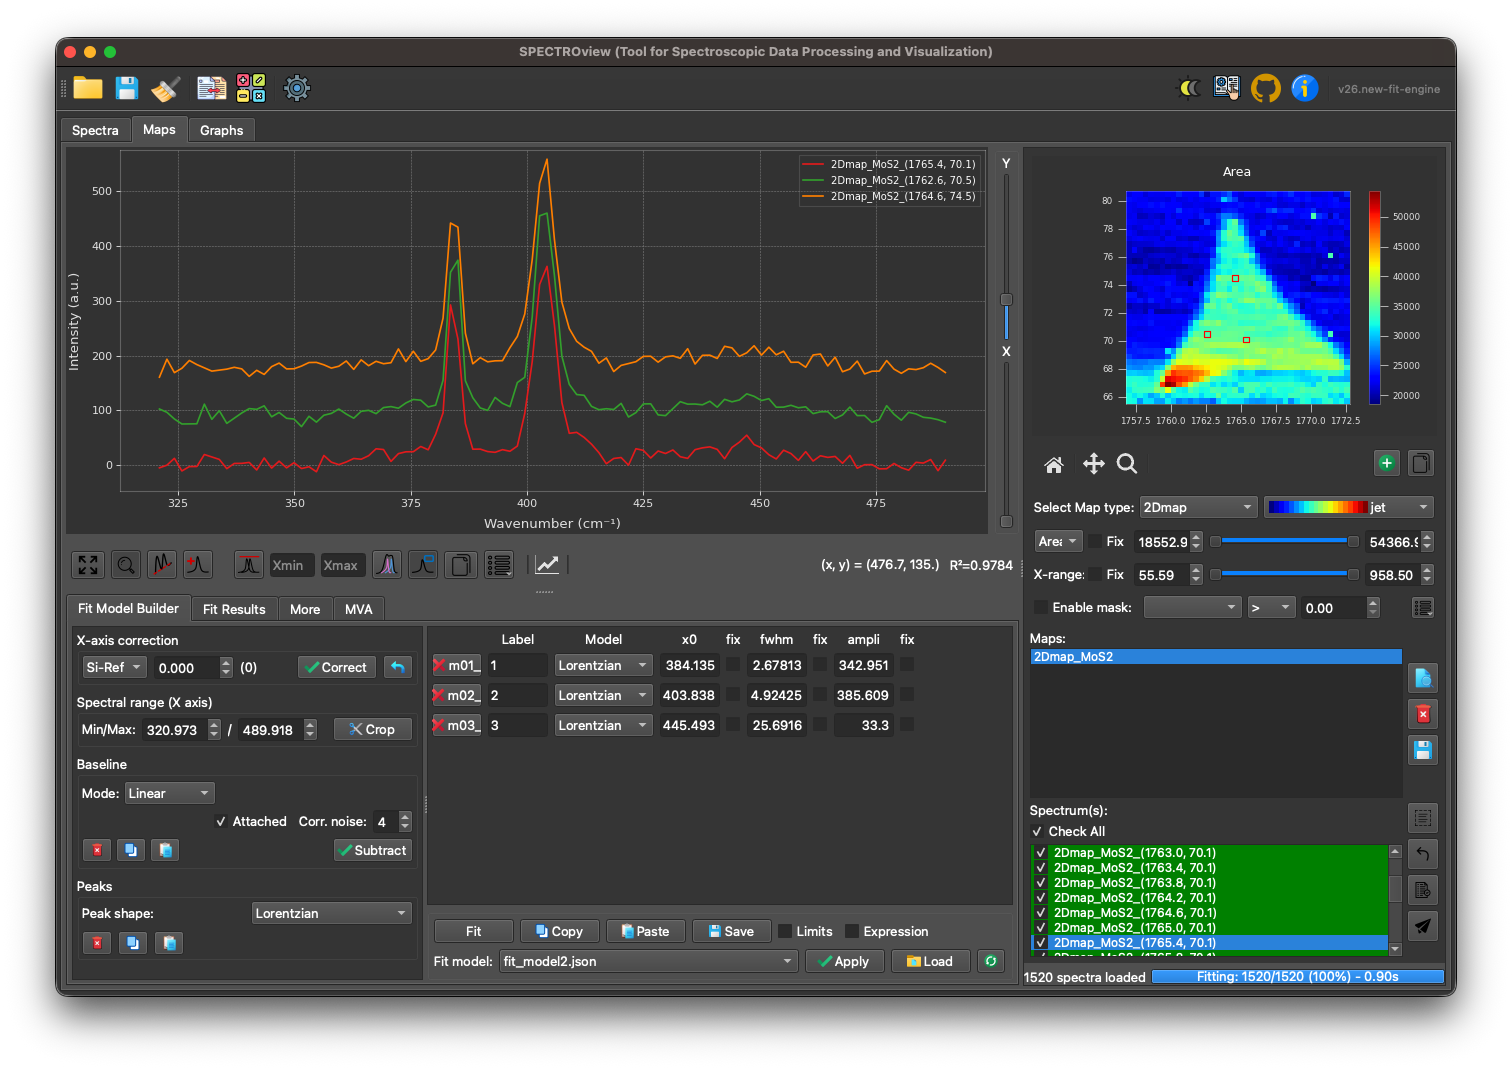
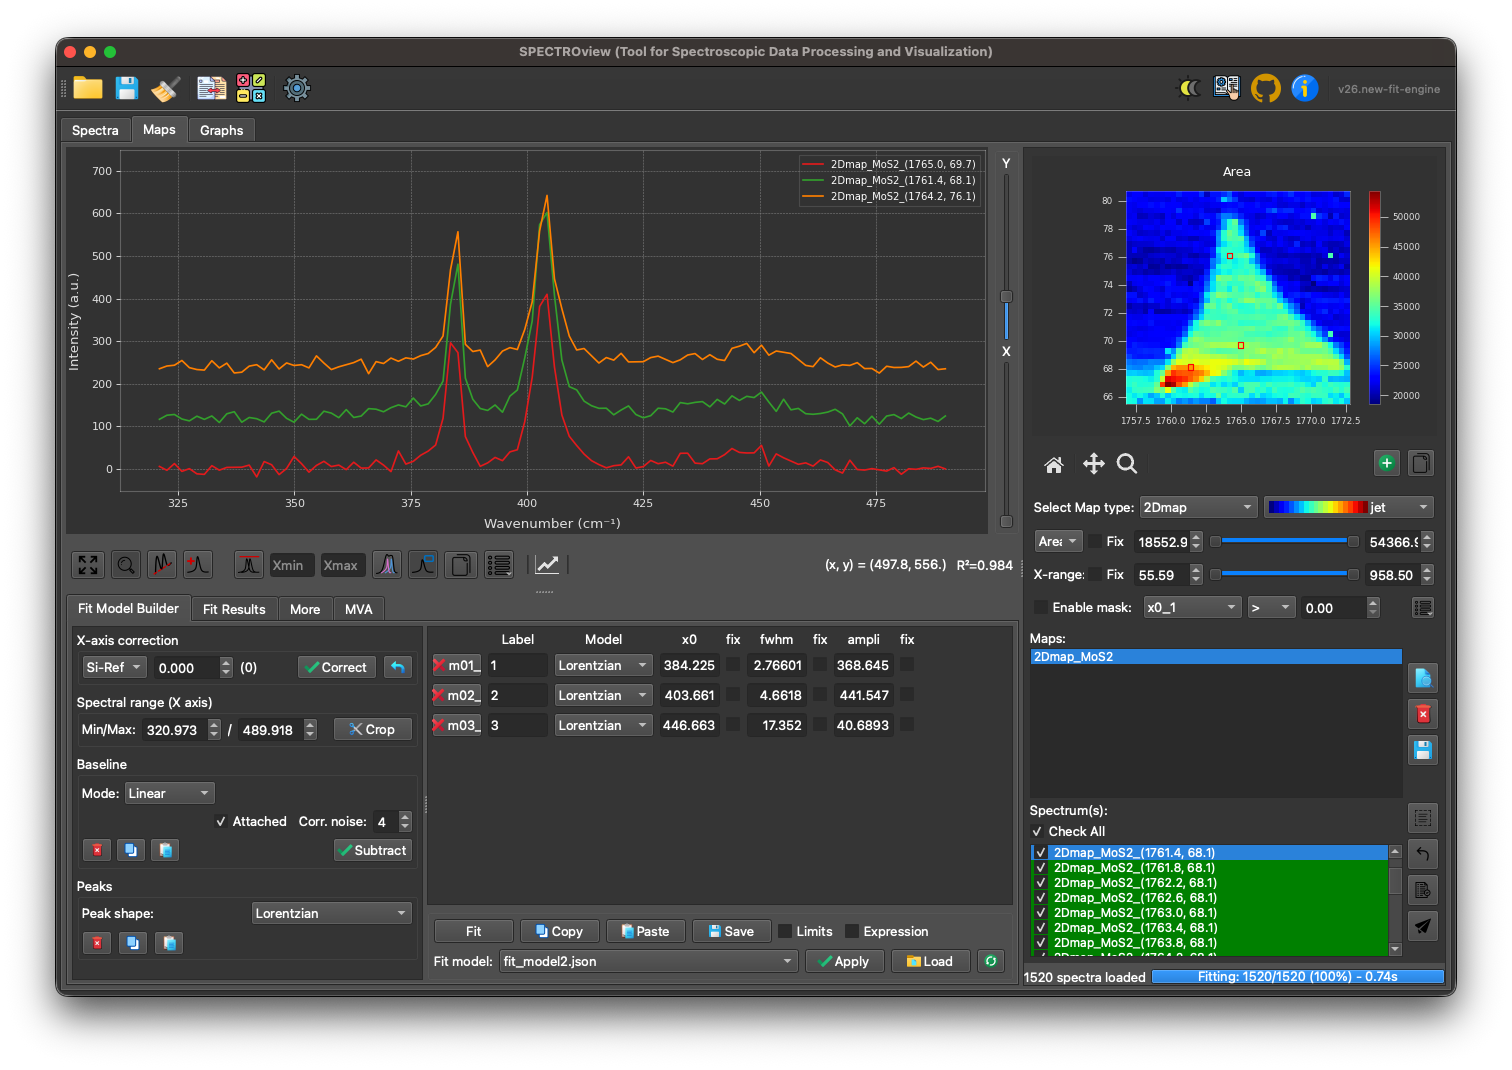
Deployed bfb7b21 with MkDocs version: 1.6.1

diff --git a/user-manual/05_spectra_maps/index.html b/user-manual/05_spectra_maps/index.html
@@ -1418,12 +1418,12 @@
 
 <h2 id="5-spectra-and-maps-workspaces">5. Spectra and Maps Workspaces<a class="headerlink" href="#5-spectra-and-maps-workspaces" title="Permanent link">&para;</a></h2>
 <p>The Maps and Spectra workspaces share a unified design and many core features. However, the Maps workspace includes additional, specialized tools specifically engineered for handling large hyperspectral datasets.</p>
-<p><img alt="Overview Spectra and Maps" src="../../user_manual_images/imageFile19.png" /><br>
-<img alt="Overview Spectra and Maps" src="../../user_manual_images/imageFile20.png" /><br>
+<p><img alt="Overview Spectra and Maps" src="../../user_manual_images/Spectra_Maps/imageFile19.png" /><br>
+<img alt="Overview Spectra and Maps" src="../../user_manual_images/Spectra_Maps/imageFile20.png" /><br>
 <em>Figure 3: Interface overview of the Spectra (left) and Maps (right) workspaces. Both interfaces are divided into three primary sections. Section 1 (SpectraViewer) and Section 2 (FitModelBuilder) are identical in both workspaces, whereas Section 3 (SpectraList / MapList) is tailored to the specific data type.</em></p>
 <h3 id="51-spectralist-maplist">5.1 SpectraList &amp; MapList<a class="headerlink" href="#51-spectralist-maplist" title="Permanent link">&para;</a></h3>
 <p>These components are engineered for efficient navigation and management of your spectral or hyperspectral datasets.</p>
-<p><img alt="MapList and MapViewer" src="../../user_manual_images/imageFile22.png" /><br>
+<p><img alt="MapList and MapViewer" src="../../user_manual_images/Spectra_Maps/imageFile22.png" /><br>
 <em>Figure 4: (Left) The MapList section within the Maps workspace. (Right) The MapViewer module and 'More Options' panel used to adjust the heatmap display.</em></p>
 <p><strong>MapList</strong>: Displays all loaded map files, including wafer maps and 2D map types. Three utility buttons located on the right allow you to: (1) view the selected map data, (2) delete the selected map from the workspace, or (3) export the selected map directly to an Excel file.</p>
 <p><strong>SpectraList</strong>: Displays all loaded discrete spectra in the Spectra workspace, or all spectra associated with the currently selected map in the Maps workspace. You can select one or multiple spectra simultaneously; the selected spectra are immediately visualized in the SpectraViewer. Dedicated buttons allow you to select all spectra, clear your selection, display a comprehensive fit statistic report, or send the currently selected spectra to the Spectra workspace for isolated analysis.</p>
@@ -1437,11 +1437,11 @@
 <li><strong>Copy Button</strong>: Instantly copies the heatmap to your clipboard.</li>
 <li><strong>Multiple MapViewers</strong>: Launch additional MapViewer windows as floating widgets to easily compare different parameters side-by-side.</li>
 </ul>
-<p><img alt="SpectraList and ProgressBar" src="../../user_manual_images/imageFile24.png" /><br>
+<p><img alt="SpectraList and ProgressBar" src="../../user_manual_images/Spectra_Maps/imageFile24.png" /><br>
 <em>Figure 5: SpectraList alongside the ProgressBar. The progress bar displays real-time fitting progress (percentage and elapsed time). A 'Stop' button is provided to safely halt an ongoing fitting process.</em></p>
 <h3 id="52-spectra-viewer">5.2 Spectra Viewer<a class="headerlink" href="#52-spectra-viewer" title="Permanent link">&para;</a></h3>
 <p>The SpectraViewer is the central plotting widget where all spectra (and their best-fit curves) selected via the SpectraList are visualized.</p>
-<p><img alt="Spectra Viewer" src="../../user_manual_images/imageFile25.png" /><br>
+<p><img alt="Spectra Viewer" src="../../user_manual_images/Spectra_Maps/imageFile25.png" /><br>
 <em>Figure 6: The Spectra Viewer widget (left) and its View Options Menu (right).</em></p>
 <h4 id="toolbar-buttons-view-options">Toolbar Buttons &amp; View Options<a class="headerlink" href="#toolbar-buttons-view-options" title="Permanent link">&para;</a></h4>
 <table>
@@ -1453,36 +1453,36 @@
 </thead>
 <tbody>
 <tr>
-<td><img alt="Rescale" src="../../user_manual_images/imageFile26.png" /></td>
+<td><img alt="Rescale" src="../../user_manual_images/Spectra_Maps/imageFile26.png" /></td>
 <td><strong>Rescale</strong>: Automatically rescales the plot axes to fit the current data perfectly. Shortcut: <code>Ctrl + R</code>.</td>
 </tr>
 <tr>
-<td><img alt="Zoom" src="../../user_manual_images/imageFile27.png" /></td>
+<td><img alt="Zoom" src="../../user_manual_images/Spectra_Maps/imageFile27.png" /></td>
 <td><strong>Zoom</strong>: When toggled on, enables a click-and-drag box zoom feature using the left mouse button.</td>
 </tr>
 <tr>
-<td><img alt="Baseline" src="../../user_manual_images/imageFile28.png" /></td>
+<td><img alt="Baseline" src="../../user_manual_images/Spectra_Maps/imageFile28.png" /></td>
 <td><strong>Baseline</strong>: When toggled on, allows you to manually define baseline anchor points by clicking directly on the spectra.</td>
 </tr>
 <tr>
-<td><img alt="Peaks" src="../../user_manual_images/imageFile29.png" /></td>
+<td><img alt="Peaks" src="../../user_manual_images/Spectra_Maps/imageFile29.png" /></td>
 <td><strong>Peaks</strong>: When toggled on, allows you to manually add initial peak guesses by clicking directly on the spectra.</td>
 </tr>
 <tr>
-<td><img alt="Normalization" src="../../user_manual_images/imageFile31.png" /> <img alt="Normalization Max" src="../../user_manual_images/imageFile32.png" /> <img alt="Normalization Range" src="../../user_manual_images/imageFile33.png" /></td>
-<td><strong>Normalization</strong>: Displays the selected spectra normalized to their maximum peak intensity. Enter values into the 'min' and 'max' fields to normalize based on a specific, targeted spectral range.<br><img alt="Normalization Example" src="../../user_manual_images/imageFile34.png" /><br><em>Figure 7: Raw spectra (left) vs. normalized spectra (right), highly useful for inspecting subtle peak shifts.</em></td>
+<td><img alt="Normalization" src="../../user_manual_images/Spectra_Maps/imageFile31.png" /> <img alt="Normalization Max" src="../../user_manual_images/Spectra_Maps/imageFile32.png" /> <img alt="Normalization Range" src="../../user_manual_images/Spectra_Maps/imageFile33.png" /></td>
+<td><strong>Normalization</strong>: Displays the selected spectra normalized to their maximum peak intensity. Enter values into the 'min' and 'max' fields to normalize based on a specific, targeted spectral range.<br><img alt="Normalization Example" src="../../user_manual_images/Spectra_Maps/imageFile34.png" /><br><em>Figure 7: Raw spectra (left) vs. normalized spectra (right), highly useful for inspecting subtle peak shifts.</em></td>
 </tr>
 <tr>
-<td><img alt="Legend" src="../../user_manual_images/imageFile35.png" /></td>
-<td><strong>Legend</strong>: Toggles the display of the legend box. When the 'Zoom' tool is disabled, you can click directly on the legend box to customize colors and labels.<br><img alt="Legend Customization" src="../../user_manual_images/imageFile36.png" /></td>
+<td><img alt="Legend" src="../../user_manual_images/Spectra_Maps/imageFile35.png" /></td>
+<td><strong>Legend</strong>: Toggles the display of the legend box. When the 'Zoom' tool is disabled, you can click directly on the legend box to customize colors and labels.<br><img alt="Legend Customization" src="../../user_manual_images/Spectra_Maps/imageFile36.png" /></td>
 </tr>
 <tr>
-<td><img alt="Copy" src="../../user_manual_images/imageFile37.png" /></td>
+<td><img alt="Copy" src="../../user_manual_images/Spectra_Maps/imageFile37.png" /></td>
 <td><strong>Copy</strong>: Copies the plot to your clipboard as a high-quality image. Use <code>Ctrl + Click</code> (or <code>Cmd + Click</code> on macOS) to copy the raw numerical plot data to your clipboard instead.</td>
 </tr>
 <tr>
-<td><img alt="More Options" src="../../user_manual_images/imageFile38.png" /></td>
-<td><strong>More Options</strong>: Opens a comprehensive configuration panel allowing you to adjust X/Y units, toggle Log scales, change plot styles, toggle Raw/Residual visibility, enable grids, adjust line widths, and define precise figure dimensions.<br><img alt="More Options Panel" src="../../user_manual_images/imageFile39.png" /></td>
+<td><img alt="More Options" src="../../user_manual_images/Spectra_Maps/imageFile38.png" /></td>
+<td><strong>More Options</strong>: Opens a comprehensive configuration panel allowing you to adjust X/Y units, toggle Log scales, change plot styles, toggle Raw/Residual visibility, enable grids, adjust line widths, and define precise figure dimensions.<br><img alt="More Options Panel" src="../../user_manual_images/Spectra_Maps/imageFile39.png" /></td>
 </tr>
 </tbody>
 </table>
@@ -1492,11 +1492,11 @@
 <li><strong>Add/Remove Peaks</strong>: With the 'Peak' button enabled, left-click to drop a new peak, or right-click near an existing peak to remove it.</li>
 <li><strong>Adjust Peak Initial Guesses</strong>: Click and drag the center or width of an initial peak guess to adjust it manually before fitting.</li>
 <li><strong>Quick Rescale Y-axis</strong>: Use your mouse wheel to rapidly scale the Y-axis up or down.
-<img alt="Quick rescale" src="../../user_manual_images/imageFile41.png" /><br></li>
+<img alt="Quick rescale" src="../../user_manual_images/Spectra_Maps/imageFile41.png" /><br></li>
 </ul>
 <h3 id="53-fit-model-builder">5.3 Fit Model Builder<a class="headerlink" href="#53-fit-model-builder" title="Permanent link">&para;</a></h3>
 <p>The FitModelBuilder tab is where you configure your spectral fitting models. It is divided into three main panels: Fitting, PeakTable, and FitModelControl.</p>
-<p><img alt="FitModelBuilder Tab" src="../../user_manual_images/imageFile42.png" /><br>
+<p><img alt="FitModelBuilder Tab" src="../../user_manual_images/Spectra_Maps/imageFile42.png" /><br>
 <em>Figure 8: The FitModelBuilder tab featuring: (1) The Fitting Panel, (2) The PeakTable Panel, and (3) The FitModelControl Panel.</em></p>
 <h4 id="531-fitting-panel">5.3.1 Fitting Panel<a class="headerlink" href="#531-fitting-panel" title="Permanent link">&para;</a></h4>
 <p>The Fitting Panel guides you through the process of building a robust model in four logical steps:</p>
@@ -1506,12 +1506,12 @@ Perform an empirical X-axis correction based on measurements from a known refere
 Restrict the mathematical fitting process to a specific X-axis region of interest.</p>
 <p><strong>Step 3: Baseline Definition</strong>
 SPECTROview offers two distinct modes for defining spectral baselines (Manual or Auto):</p>
-<p><img alt="Baseline Modes" src="../../user_manual_images/imageFile44.png" /><br>
+<p><img alt="Baseline Modes" src="../../user_manual_images/Spectra_Maps/imageFile44.png" /><br>
 <em>Figure 9: Baseline mode selection: Manual mode (left) vs. Auto mode (right).</em></p>
 <ul>
 <li>
 <p><strong>Manual Mode (Linear or Polynomial)</strong>: Define baseline anchor points by clicking directly in the SpectraViewer. Check <em>Attached</em> to automatically snap your clicked points to the nearest data curve. Check <em>Correct noise</em> to calculate the point's intensity as a local average of neighboring data, making it robust against high noise.
-<img alt="Manual Baseline Example" src="../../user_manual_images/imageFile45.png" /><br></p>
+<img alt="Manual Baseline Example" src="../../user_manual_images/Spectra_Maps/imageFile45.png" /><br></p>
 </li>
 <li>
 <p><strong>Auto Mode (airPLS or asLS)</strong>: Let advanced algorithms automatically generate the baseline curve. Use the slider to fine-tune the algorithm's aggressiveness.</p>
@@ -1524,11 +1524,11 @@ SPECTROview offers two distinct modes for defining spectral baselines (Manual or
 <li>Add peaks directly inside the SpectraViewer by left-clicking (ensure the Peak toggle button is active). You can interactively adjust their initial guesses by dragging them with the mouse.</li>
 <li>Every peak added to the plot is immediately listed in the <strong>PeakTable</strong>.</li>
 <li>Supported peak profiles include: Lorentzian, Gaussian, PseudoVoigt, LorentzianAsym, GaussianAsym, Fano, DecaySingleExp, and DecayBiExp.
-<img alt="Peak definition" src="../../user_manual_images/imageFile46.png" /><br></li>
+<img alt="Peak definition" src="../../user_manual_images/Spectra_Maps/imageFile46.png" /><br></li>
 </ul>
 <h4 id="532-peaktable-panel">5.3.2 PeakTable Panel<a class="headerlink" href="#532-peaktable-panel" title="Permanent link">&para;</a></h4>
 <p>The PeakTable displays all the mathematical parameters for the peaks you have defined. When you drag a peak in the viewer, these properties update dynamically.</p>
-<p><img alt="PeakTable Panel" src="../../user_manual_images/imageFile48.png" /><br>
+<p><img alt="PeakTable Panel" src="../../user_manual_images/Spectra_Maps/imageFile48.png" /><br>
 <em>Figure 10: The PeakTable panel displaying peak parameters and constraints.</em></p>
 <p><strong>Constraints System</strong>:</p>
 <ul>
@@ -1536,35 +1536,35 @@ SPECTROview offers two distinct modes for defining spectral baselines (Manual or
 <li><strong>Limits</strong>: Enter minimum and maximum boundary values to restrict how far the optimizer can move the parameter.</li>
 <li><strong>Expression</strong>: Define complex mathematical relationships between parameters.</li>
 </ul>
-<p><img alt="Expression Limit" src="../../user_manual_images/imageFile49.png" /><br>
+<p><img alt="Expression Limit" src="../../user_manual_images/Spectra_Maps/imageFile49.png" /><br>
 <em>Example 1: Using an expression to constrain the position (<code>x0</code>) of <code>m02</code> to always remain exactly 17 units away from the position of <code>m01</code>.</em></p>
-<p><img alt="Expression Intensity" src="../../user_manual_images/imageFile50.png" /><br>
+<p><img alt="Expression Intensity" src="../../user_manual_images/Spectra_Maps/imageFile50.png" /><br>
 <em>Example 2: Using an expression to constrain the amplitude of <code>m03</code> to always be exactly half the amplitude of <code>m02</code>.</em></p>
 <h4 id="533-fitmodelcontrol-panel">5.3.3 FitModelControl Panel<a class="headerlink" href="#533-fitmodelcontrol-panel" title="Permanent link">&para;</a></h4>
 <p>Once your model is fully defined, click the <strong>Fit</strong> button to execute the optimization algorithm.</p>
-<p><img alt="FitModelControl Interface" src="../../user_manual_images/imageFile52.png" /><br>
+<p><img alt="FitModelControl Interface" src="../../user_manual_images/Spectra_Maps/imageFile52.png" /><br>
 <em>Figure 11: The FitModelControl interface.</em></p>
 <p><strong>Copy / Paste Fit Models</strong>: 
 A fully configured fit model can be copied from one spectrum and pasted onto another, making it easy to replicate complex setups.
-<img alt="Copy Fit" src="../../user_manual_images/imageFile53.png" /><br>
-<img alt="Paste Fit" src="../../user_manual_images/imageFile54.png" /><br>
-<img alt="Paste Example" src="../../user_manual_images/imageFile55.png" /><br></p>
+<img alt="Copy Fit" src="../../user_manual_images/Spectra_Maps/imageFile53.png" /><br>
+<img alt="Paste Fit" src="../../user_manual_images/Spectra_Maps/imageFile54.png" /><br>
+<img alt="Paste Example" src="../../user_manual_images/Spectra_Maps/imageFile55.png" /><br></p>
 <p><strong>Saving / Loading Fit Models</strong>:
 If you intend to use a model frequently, you can save it as a template. Stored models can easily be accessed and applied to new data using the dropdown menu.
-<img alt="Fit Model Dropdown" src="../../user_manual_images/imageFile56.png" /><br>
-<img alt="Load Fit Model" src="../../user_manual_images/imageFile57.png" /><br></p>
+<img alt="Fit Model Dropdown" src="../../user_manual_images/Spectra_Maps/imageFile56.png" /><br>
+<img alt="Load Fit Model" src="../../user_manual_images/Spectra_Maps/imageFile57.png" /><br></p>
 <h3 id="54-collect-save-fit-results">5.4 Collect &amp; Save Fit Results<a class="headerlink" href="#54-collect-save-fit-results" title="Permanent link">&para;</a></h3>
 <p>Once fitting is complete across your spectra or maps, you need to aggregate the mathematical results:</p>
 <ul>
 <li>Navigate to the <strong>Fit Results</strong> tab.</li>
 <li>Click the <strong>Collect</strong> button. SPECTROview will instantly aggregate all best-fit parameters into a unified, sortable table.</li>
 </ul>
-<p><img alt="Collect Fit Results 1" src="../../user_manual_images/imageFile58.png" /><br>
-<img alt="Collect Fit Results 2" src="../../user_manual_images/imageFile59.png" /><br>
+<p><img alt="Collect Fit Results 1" src="../../user_manual_images/Spectra_Maps/imageFile58.png" /><br>
+<img alt="Collect Fit Results 2" src="../../user_manual_images/Spectra_Maps/imageFile59.png" /><br>
 <em>Figure 12: The Collect Fit Results interface and aggregated data table.</em></p>
 <h4 id="541-splitting-filename-features">5.4.1 Splitting Filename Features<a class="headerlink" href="#541-splitting-filename-features" title="Permanent link">&para;</a></h4>
 <p>This tool allows you to automatically extract metadata embedded in your filenames. For example, if your files are named <code>Sample1_ProcessA_Temp25</code>, the tool can split the filename by underscores (<code>_</code>) and assign the extracted values into distinct new columns in your dataset.
-<img alt="Filename Splitting" src="../../user_manual_images/imageFile61.png" /><br></p>
+<img alt="Filename Splitting" src="../../user_manual_images/Spectra_Maps/imageFile61.png" /><br></p>
 <h4 id="542-compute-and-add-new-columns">5.4.2 Compute and Add New Columns<a class="headerlink" href="#542-compute-and-add-new-columns" title="Permanent link">&para;</a></h4>
 <p>You can easily create new columns derived from mathematical combinations of existing fitted parameters (e.g., calculating a peak shift via <code>x0_p1 - x0_p2</code>).
 Supported mathematical operations include: <code>+</code>, <code>-</code>, <code>*</code>, <code>/</code>, <code>**</code>, <code>%</code>, and <code>()</code>.</p>
@@ -1573,8 +1573,8 @@ Supported mathematical operations include: <code>+</code>, <code>-</code>, <code
 </blockquote>
 <h4 id="543-saving-or-visualizing">5.4.3 Saving or Visualizing<a class="headerlink" href="#543-saving-or-visualizing" title="Permanent link">&para;</a></h4>
 <p>Once your data table is finalized, give it a descriptive name and either send it directly to the Graphs workspace for immediate plotting or export it to an Excel/CSV spreadsheet for external use.</p>
-<p><img alt="Send to Graph" src="../../user_manual_images/imageFile63.png" /><br>
-<img alt="Export to Excel" src="../../user_manual_images/imageFile64.png" /><br></p>
+<p><img alt="Send to Graph" src="../../user_manual_images/Spectra_Maps/imageFile63.png" /><br>
+<img alt="Export to Excel" src="../../user_manual_images/Spectra_Maps/imageFile64.png" /><br></p>
 <h3 id="55-more-tab">5.5 More Tab<a class="headerlink" href="#55-more-tab" title="Permanent link">&para;</a></h3>
 <p>The 'More' tab provides access to auxiliary tools and metadata, divided into three sections:</p>
 <ul>
@@ -1582,7 +1582,7 @@ Supported mathematical operations include: <code>+</code>, <code>-</code>, <code
 <li><strong>Middle</strong>: Displays detailed properties and statistical information about the currently selected spectrum.</li>
 <li><strong>Right</strong>: Provides access to additional pre-processing utilities, such as global intensity normalization algorithms and cosmic ray artifact detection.</li>
 </ul>
-<p><img alt="More Tab" src="../../user_manual_images/imageFile65.png" /><br>
+<p><img alt="More Tab" src="../../user_manual_images/Spectra_Maps/imageFile65.png" /><br>
 <em>Figure 13: The user interface of the More Tab.</em></p>
 
 

diff --git a/user-manual/index.html b/user-manual/index.html
@@ -1010,27 +1010,41 @@
   
 
 
-<h1 align="center">SPECTROview User Manual</h1>
-<p align="center">
-  <img src="../user_manual_images/imageFile2.png" alt="SPECTROview Logo" width="100">
-</p>
-<p align="center"><b>Last updated: May 2026</b></p>
+<table border="0" cellspacing="0" cellpadding="20">
+  <tr>
+    <td valign="top" width="200" style="border-right: 1px solid rgba(128,128,128,0.3);">
+      <div align="center">
+        <img src="../user_manual_images/Home/imageFile2.png" alt="SPECTROview Logo" width="150">
+        <br><br>
+        <p align="center"><b>Last updated:</b> May 2026</p>
+      </div>
+    </td>
+    <td valign="top">
+      <h1 style="margin-top: 0;">SPECTROview User Manual</h1>
+      <p>Welcome to the official documentation for SPECTROview. Explore the sections below to learn about the features and capabilities of the software.</p>
 
-<hr />
-<ol>
-<li><a href="01_introduction/">Introduction</a></li>
-<li><a href="02_installation/">Installation</a></li>
-<li><a href="03_supported_data/">Supported Data Formats</a></li>
-<li><a href="04_ui_overview/">User Interface Overview</a></li>
-<li><a href="05_spectra_maps/">Spectra and Maps Workspaces</a></li>
-<li><a href="06_graphs/">Graphs Workspace</a></li>
-<li><a href="07_tensor_fit/">Tensor Fit Engine</a></li>
-<li><a href="08_mva/">Multivariate Analysis (MVA)</a></li>
-<li><a href="09_calculators/">Quick Calculators</a></li>
-<li><a href="10_settings/">Settings &amp; Preferences</a></li>
-<li><a href="11_save_load/">Save &amp; Load Workspace</a></li>
-<li><a href="12_shortcuts/">Keyboard Shortcuts &amp; Tips</a></li>
-</ol>
+      <h3>Table of Contents</h3>
+      <ol>
+        <li><b><a href="01_introduction.md">Introduction</a></b></li>
+        <li><b><a href="02_installation.md">Installation</a></b></li>
+        <li><b><a href="03_supported_data.md">Supported Data Formats</a></b></li>
+        <li><b><a href="04_ui_overview.md">User Interface Overview</a></b></li>
+        <li><b><a href="05_spectra_maps.md">Spectra and Maps Workspaces</a></b></li>
+        <li><b><a href="06_graphs.md">Graphs Workspace</a></b></li>
+        <li><b><a href="07_tensor_fit.md">Tensor Fit Engine</a></b></li>
+        <li><b><a href="08_mva.md">Multivariate Analysis (MVA)</a></b></li>
+        <li><b><a href="09_calculators.md">Quick Calculators</a></b></li>
+        <li><b><a href="10_settings.md">Settings & Preferences</a></b></li>
+        <li><b><a href="11_save_load.md">Save & Load Workspace</a></b></li>
+        <li><b><a href="12_shortcuts.md">Keyboard Shortcuts & Tips</a></b></li>
+      </ol>
+    </td>
+  </tr>
+</table>
+
+<div align="center">
+  <img src="../user_manual_images/Home/Three_Workspaces.gif" alt="Three Workspaces" width="800">
+</div>
 
 
 

diff --git a/user-manual/06_graphs/index.html b/user-manual/06_graphs/index.html
@@ -1206,12 +1206,12 @@
 
 <h2 id="6-graphs-workspace">6. Graphs Workspace<a class="headerlink" href="#6-graphs-workspace" title="Permanent link">&para;</a></h2>
 <p>The Graphs Workspace is exclusively dedicated to data visualization, engineered with a strong emphasis on simplicity, speed, and customization.</p>
-<p><img alt="Graphs Workspace" src="../../user_manual_images/imageFile67.png" /><br>
+<p><img alt="Graphs Workspace" src="../../user_manual_images/Graphs/imageFile67.png" /><br>
 <em>Figure 14: The Graphs Workspace interface. The main Graph Viewer is situated on the left, with the comprehensive Control Panel on the right.</em></p>
 <h3 id="61-loading-data">6.1 Loading Data<a class="headerlink" href="#61-loading-data" title="Permanent link">&para;</a></h3>
 <p>Datasets can be passed seamlessly from the Spectra and Maps workspaces, or imported directly from external Excel/CSV files. All available datasets are dynamically tracked and displayed in the dataset list widget.
 Available utility buttons include: <strong>View</strong> (inspect the data table), <strong>Delete</strong> (remove the dataset), <strong>Save</strong> (export the dataset), and <strong>Refresh</strong> (dynamically reload the CSV/Excel file if it has been modified externally).</p>
-<p><img alt="Dataset List" src="../../user_manual_images/imageFile69.png" /><br>
+<p><img alt="Dataset List" src="../../user_manual_images/Graphs/imageFile69.png" /><br>
 <em>Figure 15: The list widget displaying all loaded dataframes.</em></p>
 <h3 id="62-adding-a-new-plot">6.2 Adding a New Plot<a class="headerlink" href="#62-adding-a-new-plot" title="Permanent link">&para;</a></h3>
 <ol>
@@ -1221,22 +1221,22 @@ Available utility buttons include: <strong>View</strong> (inspect the data table
 <li>Define your plot labels, axis limits, and wafer diameter dimensions (if applicable).</li>
 <li>Click <strong>Add Plot</strong> to generate the visualization.</li>
 </ol>
-<p><img alt="Add New Plot" src="../../user_manual_images/imageFile70.png" /><br></p>
+<p><img alt="Add New Plot" src="../../user_manual_images/Graphs/imageFile70.png" /><br></p>
 <h3 id="63-modifying-an-existing-plot">6.3 Modifying an Existing Plot<a class="headerlink" href="#63-modifying-an-existing-plot" title="Permanent link">&para;</a></h3>
-<p><img alt="Plot Widget" src="../../user_manual_images/imageFile71.png" /><br>
-<img alt="Plot Customize" src="../../user_manual_images/imageFile72.png" /><br>
+<p><img alt="Plot Widget" src="../../user_manual_images/Graphs/imageFile71.png" /><br>
+<img alt="Plot Customize" src="../../user_manual_images/Graphs/imageFile72.png" /><br>
 <em>Figure 16: An example of an active plot widget. Click the "Customize" button to launch the advanced Customize Dialog.</em></p>
-<p><img alt="Toolbar Buttons" src="../../user_manual_images/imageFile73.png" /><br></p>
+<p><img alt="Toolbar Buttons" src="../../user_manual_images/Graphs/imageFile73.png" /><br></p>
 <ul>
 <li>Click <strong>Customize</strong> to open the comprehensive Customize Dialog, giving you deep control over the Legend, Annotations, Axes, and General aesthetics.</li>
 <li><strong>Double-click</strong> directly on a legend box or an annotation within the plot to edit its text interactively.</li>
 <li>
 <p>Quickly adjust core visual settings via the right-hand ControlPanel, then click <strong>Update</strong> to apply the changes instantly.
-<img alt="Update Button" src="../../user_manual_images/imageFile75.png" /><br></p>
+<img alt="Update Button" src="../../user_manual_images/Graphs/imageFile75.png" /><br></p>
 </li>
 <li>
 <p>Click <strong>Copy</strong> to export a high-resolution snapshot of the figure directly to your clipboard.
-<img alt="Copy Button" src="../../user_manual_images/imageFile76.png" /><br></p>
+<img alt="Copy Button" src="../../user_manual_images/Graphs/imageFile76.png" /><br></p>
 </li>
 </ul>
 <h3 id="64-data-filtering">6.4 Data Filtering<a class="headerlink" href="#64-data-filtering" title="Permanent link">&para;</a></h3>
@@ -1244,7 +1244,7 @@ Available utility buttons include: <strong>View</strong> (inspect the data table
 <blockquote>
 <p><strong>Note</strong>: String values must be enclosed in double quotes (<code>"text"</code>). Column headers containing spaces must be enclosed in backticks (<code>`column name`</code>).</p>
 </blockquote>
-<p><img alt="Filter Example" src="../../user_manual_images/imageFile77.png" /><br>
+<p><img alt="Filter Example" src="../../user_manual_images/Graphs/imageFile77.png" /><br>
 <em>Figure 17: An example demonstrating how to apply filters to a dataset.</em></p>
 <table>
 <thead>
@@ -1270,9 +1270,9 @@ Available utility buttons include: <strong>View</strong> (inspect the data table
 </table>
 <h3 id="65-annotation-features">6.5 Annotation Features<a class="headerlink" href="#65-annotation-features" title="Permanent link">&para;</a></h3>
 <p>You can draw and fully customize annotations (such as boundary lines and explanatory text) using the <strong>MoreOptions</strong> tab, or by clicking interactively directly on the active plot.</p>
-<p><img alt="MoreOptions" src="../../user_manual_images/imageFile79.png" /><br>
+<p><img alt="MoreOptions" src="../../user_manual_images/Graphs/imageFile79.png" /><br>
 <em>Figure 18: The MoreOptions Panel.</em></p>
-<p><img alt="Annotation Panel" src="../../user_manual_images/imageFile80.png" /><br>
+<p><img alt="Annotation Panel" src="../../user_manual_images/Graphs/imageFile80.png" /><br>
 <em>Figure 19: The Annotation Customization Panel for configuring drawn lines and text.</em></p>
 
 

diff --git a/user-manual/04_ui_overview/index.html b/user-manual/04_ui_overview/index.html
@@ -1137,35 +1137,35 @@
 </thead>
 <tbody>
 <tr>
-<td><img alt="Open" src="../../user_manual_images/imageFile7.png" /></td>
+<td><img alt="Open" src="../../user_manual_images/UI_Overview/imageFile7.png" /></td>
 <td><strong>Open</strong>: Loads any supported data type. The application will automatically detect the file format and switch to the appropriate workspace.</td>
 </tr>
 <tr>
-<td><img alt="Save" src="../../user_manual_images/imageFile8.png" /></td>
+<td><img alt="Save" src="../../user_manual_images/UI_Overview/imageFile8.png" /></td>
 <td><strong>Save</strong>: Saves the active workspace to a dedicated file (<code>.maps</code>, <code>.spectra</code>, or <code>.graphs</code>), allowing you to effortlessly pause and resume your work later.</td>
 </tr>
 <tr>
-<td><img alt="Clear" src="../../user_manual_images/imageFile9.png" /></td>
+<td><img alt="Clear" src="../../user_manual_images/UI_Overview/imageFile9.png" /></td>
 <td><strong>Clear</strong>: Clears the currently active workspace, removing all loaded data to start a fresh session.</td>
 </tr>
 <tr>
-<td><img alt="Convert" src="../../user_manual_images/imageFile10.png" /></td>
-<td><img alt="Converter" src="../../user_manual_images/imageFile13.png" /><br> <em>Figure 1: File Convert Tool : Opens a utility to convert text-exported hyperspectral data (2D maps) from Renishaw WiRE into a format natively supported by SPECTROview. Simply load your file(s) and click "Convert" to generate a new file with a <code>_converted</code> suffix.</em><br></td>
+<td><img alt="Convert" src="../../user_manual_images/UI_Overview/imageFile10.png" /></td>
+<td><img alt="Converter" src="../../user_manual_images/UI_Overview/imageFile13.png" /><br> <em>Figure 1: File Convert Tool : Opens a utility to convert text-exported hyperspectral data (2D maps) from Renishaw WiRE into a format natively supported by SPECTROview. Simply load your file(s) and click "Convert" to generate a new file with a <code>_converted</code> suffix.</em><br></td>
 </tr>
 <tr>
-<td><img alt="Settings" src="../../user_manual_images/imageFile11.png" /></td>
-<td><img alt="Settings Panel" src="../../user_manual_images/imageFile14.png" /><br> <em>Figure 2: Settings Panel: Opens the configuration panel where you can fine-tune mathematical fitting parameters and define the default storage directory for your custom fit models.</em><br></td>
+<td><img alt="Settings" src="../../user_manual_images/UI_Overview/imageFile11.png" /></td>
+<td><img alt="Settings Panel" src="../../user_manual_images/UI_Overview/imageFile14.png" /><br> <em>Figure 2: Settings Panel: Opens the configuration panel where you can fine-tune mathematical fitting parameters and define the default storage directory for your custom fit models.</em><br></td>
 </tr>
 <tr>
-<td><img alt="Theme" src="../../user_manual_images/imageFile15.png" /></td>
+<td><img alt="Theme" src="../../user_manual_images/UI_Overview/imageFile15.png" /></td>
 <td><strong>Theme Toggle</strong>: Instantly switches the application interface between Dark and Light modes.</td>
 </tr>
 <tr>
-<td><img alt="User Manual" src="../../user_manual_images/imageFile16.png" /></td>
+<td><img alt="User Manual" src="../../user_manual_images/UI_Overview/imageFile16.png" /></td>
 <td><strong>User Manual</strong>: Opens the integrated User Manual documentation viewer.</td>
 </tr>
 <tr>
-<td><img alt="About" src="../../user_manual_images/imageFile17.png" /></td>
+<td><img alt="About" src="../../user_manual_images/UI_Overview/imageFile17.png" /></td>
 <td><strong>About</strong>: Displays version information, licensing, and details about the SPECTROview application.</td>
 </tr>
 </tbody>

diff --git a/user-manual/11_save_load/index.html b/user-manual/11_save_load/index.html
@@ -1142,7 +1142,7 @@
 <p>SPECTROview uses dedicated native file formats to allow you to seamlessly pause, save, and resume your data analysis sessions without losing any configurations or fit results.</p>
 <h3 id="saving-your-work">Saving Your Work<a class="headerlink" href="#saving-your-work" title="Permanent link">&para;</a></h3>
 <p>To save your current progress, click the <strong>Save</strong> button located in the main application toolbar:</p>
-<p><img alt="Save Workspace" src="../../user_manual_images/imageFile81.png" /><br></p>
+<p><img alt="Save Workspace" src="../../user_manual_images/Save_Load/imageFile81.png" /><br></p>
 <p>The application will generate a specific file extension based on which workspace is currently active:</p>
 <table>
 <thead>